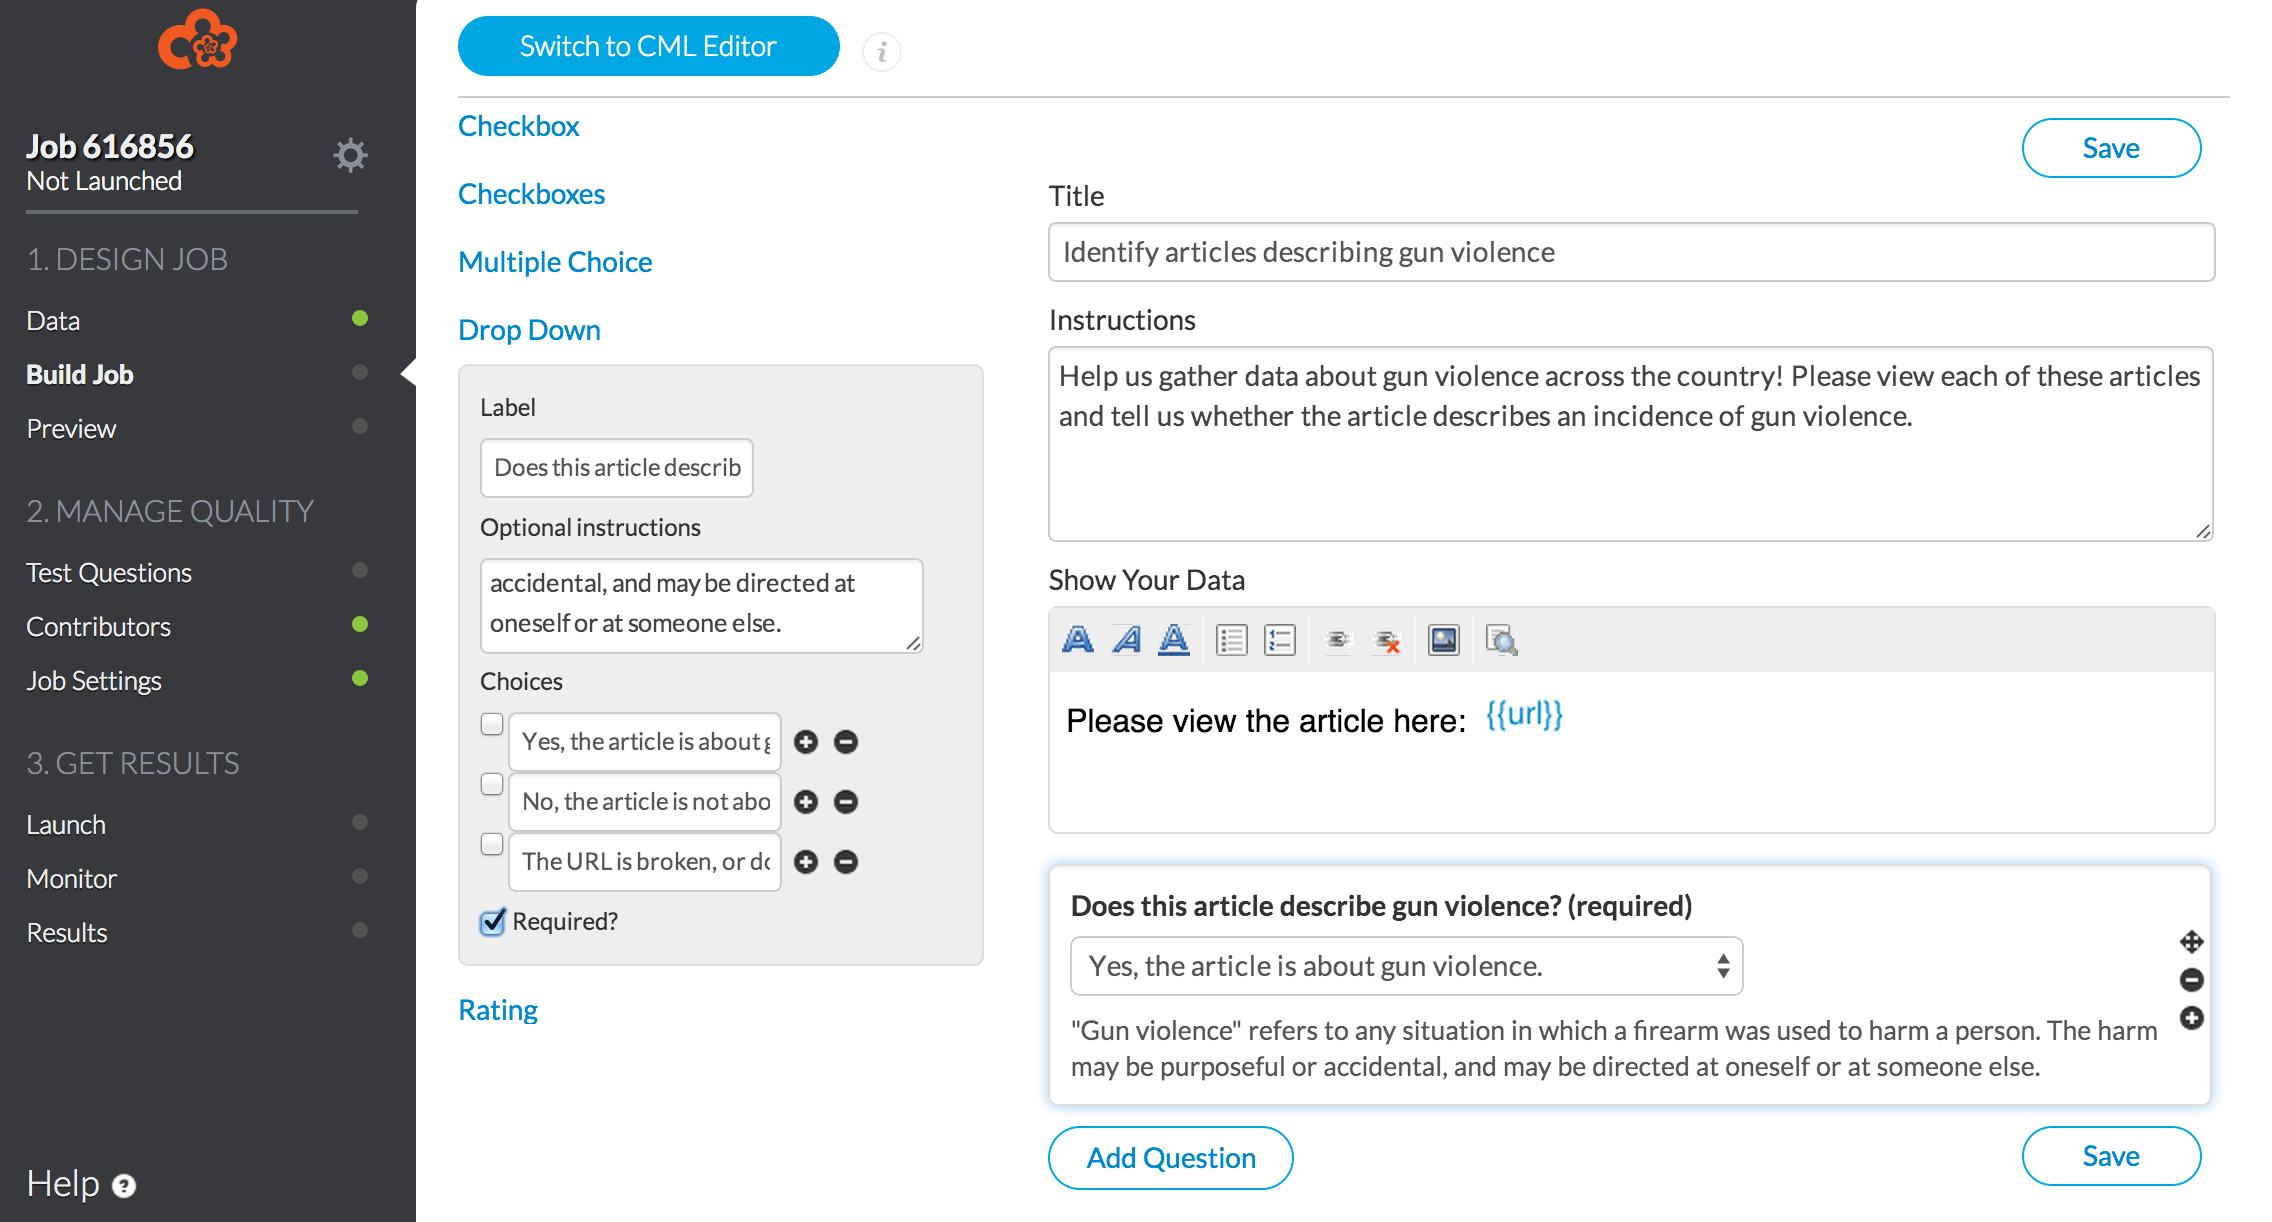
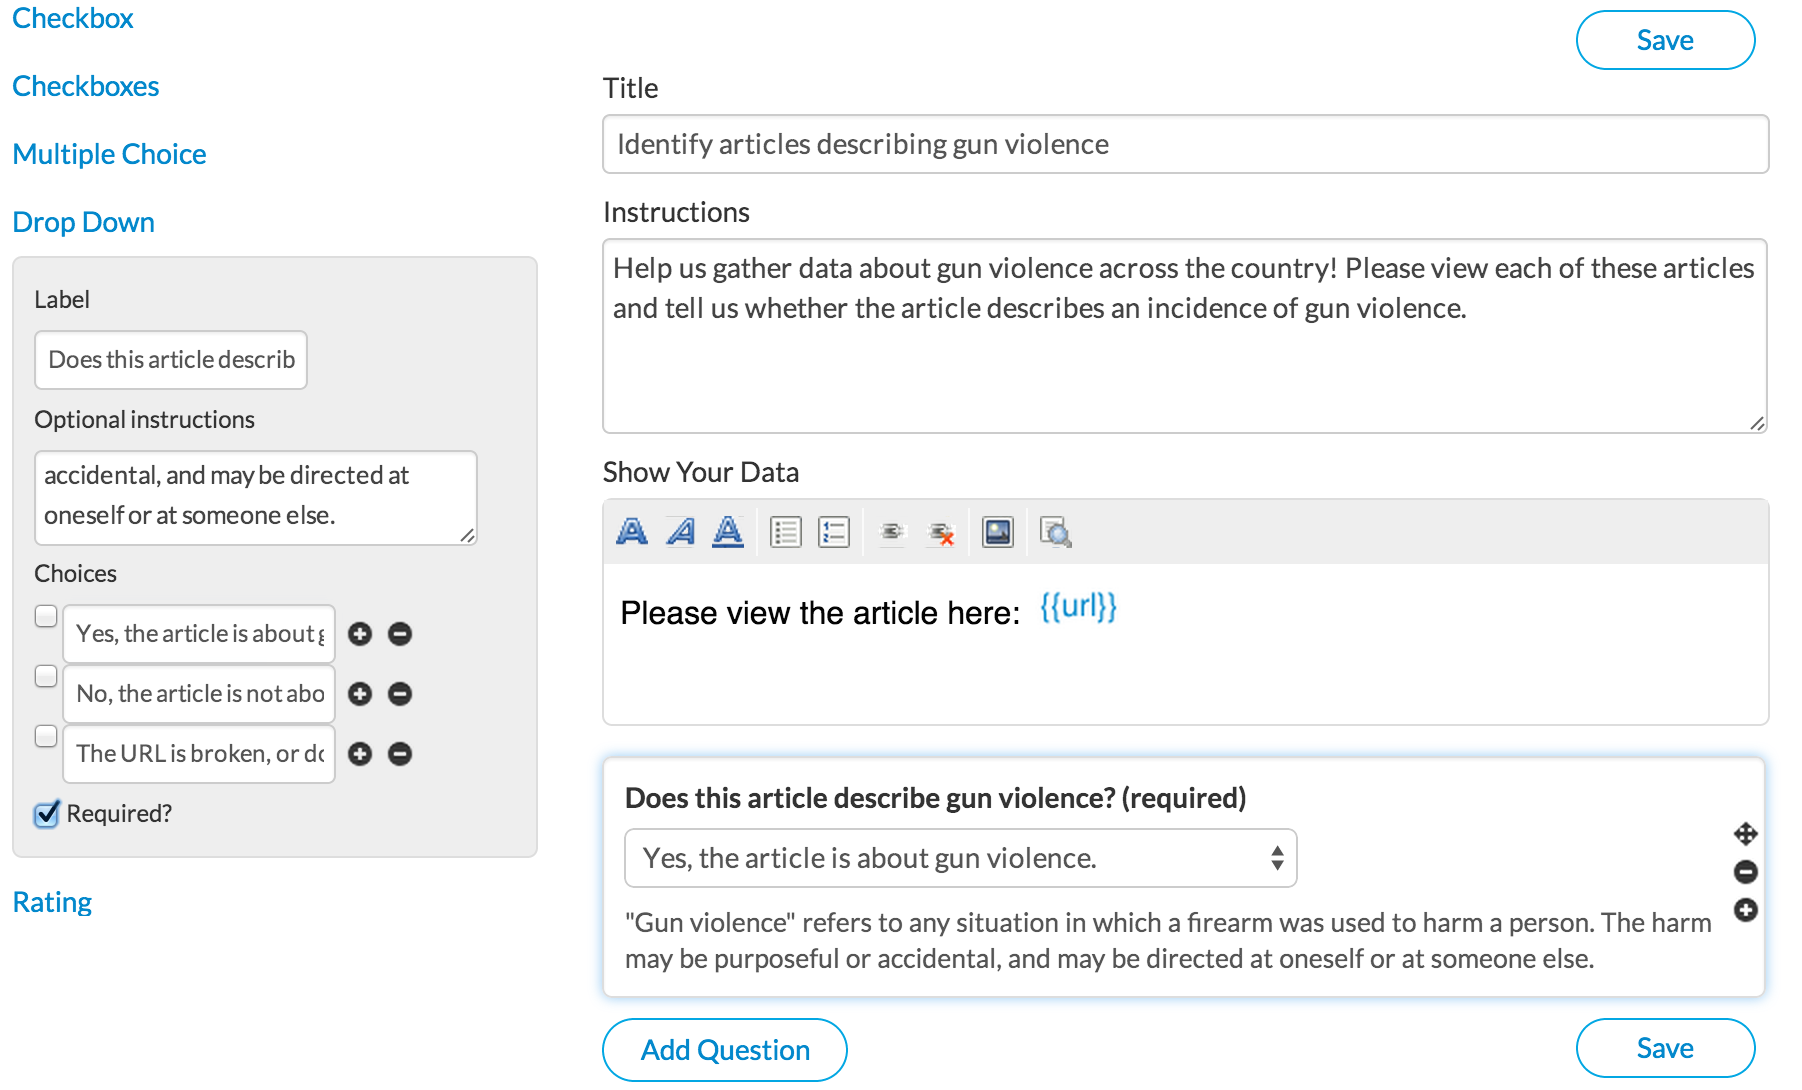
screenshots

diff --git a/wa3.md b/wa3.md
@@ -83,4 +83,11 @@ Whew, okay, enough python and bash for now! Its time to design a HIT on Crowdflo
 4. You will be abl to preview your data. It should look something like this.
 
 	<img src="assets/img/crowdflower-screenshots/data.png" style="width: 500px;"/>
+
+5. Next, design your interface. There is a nice WYSIWYG editor that will make it very easy to add questions. Just like on MTurk, you can flag variables using the {{VARIABLE_NAME}} syntax. When Crowdflower posts your HIT, it will replace your variable place holders with values from your CSV. E.g. everytime I write {{url}} in the HIT design, it will be replaced with an actual url from my data. Each row in my CSV corresponds to one HIT, so in each HIT, a different url will appear. Here is how my design looked, you are free to be more creative.
  
+	<img src="assets/img/crowdflower-screenshots/UI-design.png" style="width: 500px;"/>
+
+6. If you want to, you can also use the HTML editor. This makes it easy to add links to your URL. E.g.
+	
+	<img src="assets/img/crowdflower-screenshots/html.png" style="width: 500px;"/>
